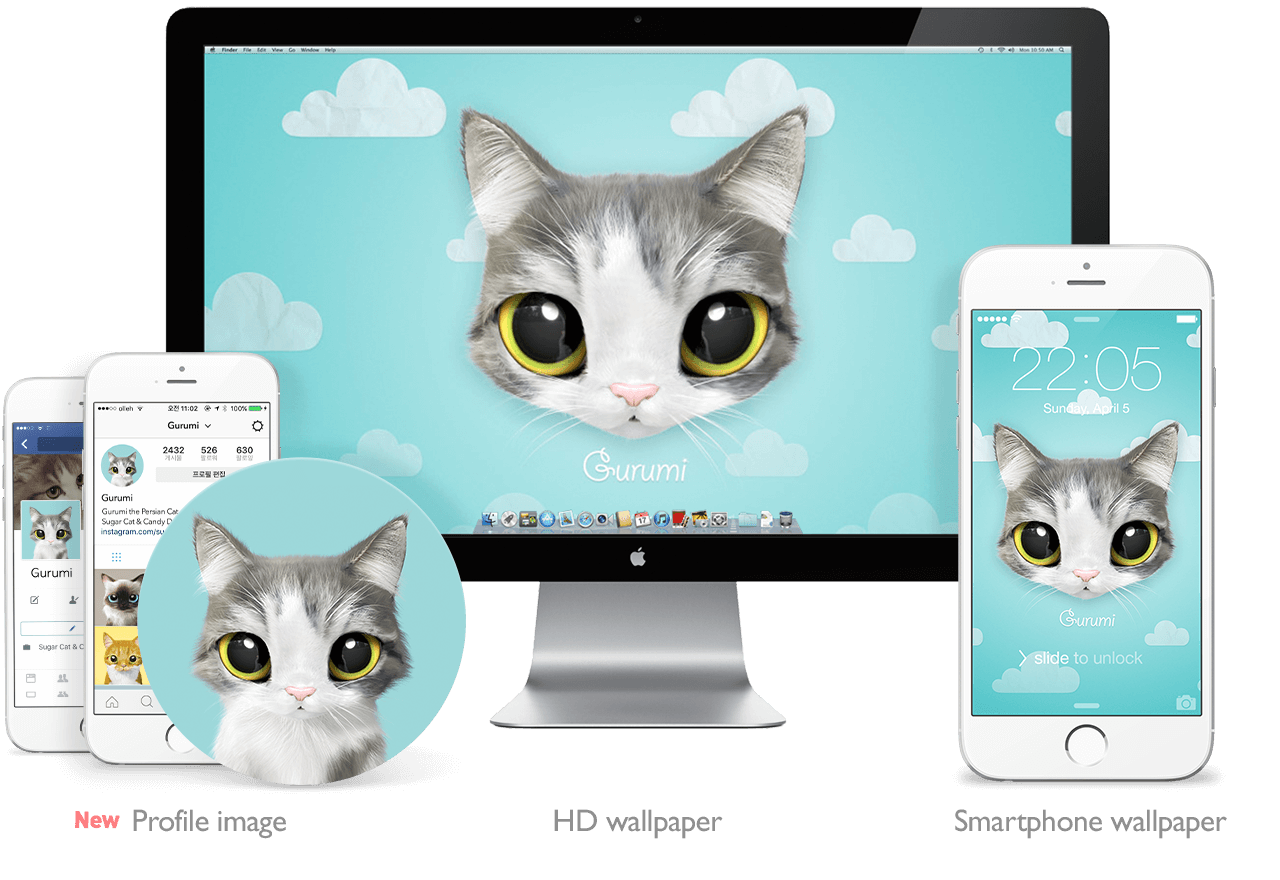
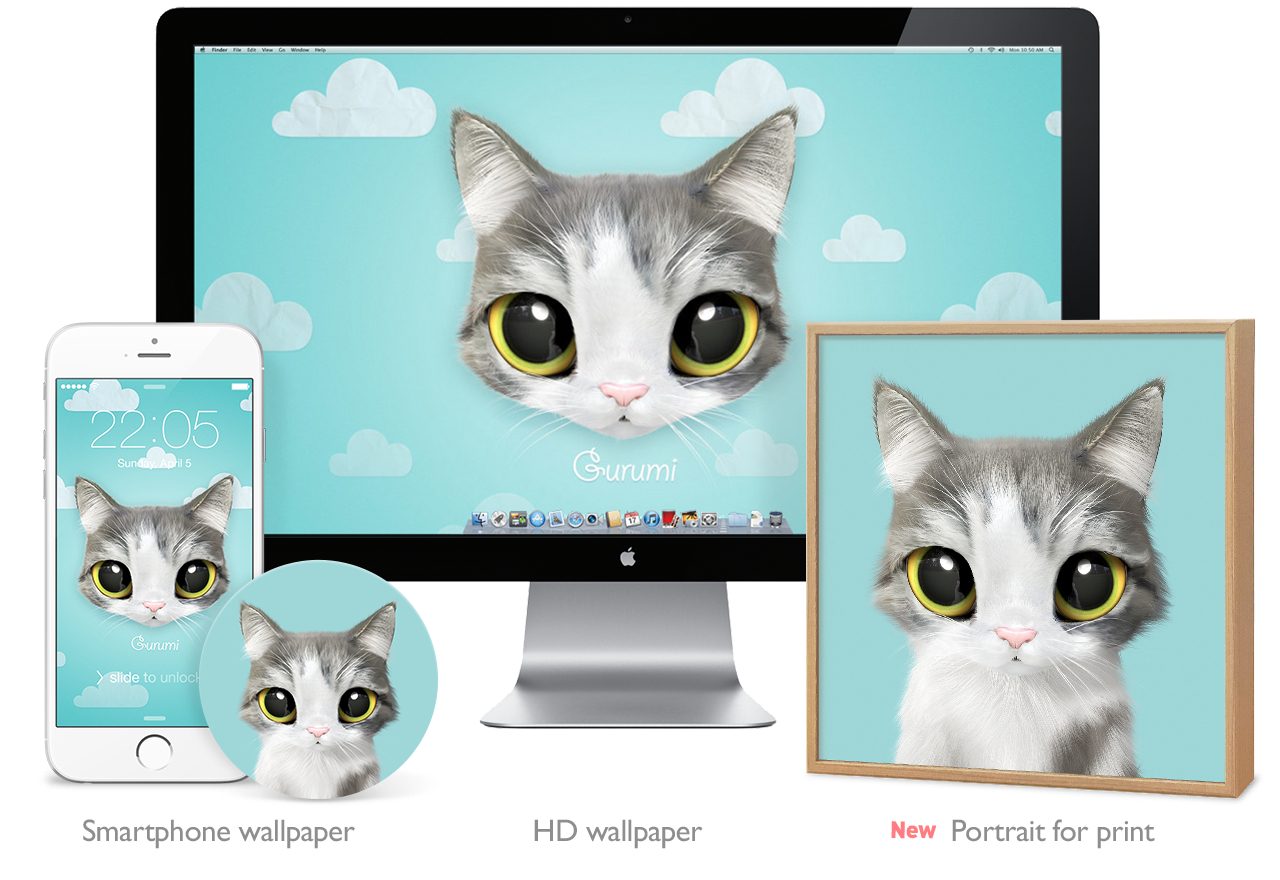
주문제작 아트프레임 업데이트

diff --git a/order/index.html b/order/index.html
@@ -262,13 +262,13 @@
           <h1 class="heading large">
             <span class="lang en">Order Now</span>
             <span class="lang ja hidden">Order Now</span>
-            <span class="lang ko hidden">지금 주문하세요</span>
+            <span class="lang ko hidden">지금 주문하세요!</span>
           </h1>
 
           <p class="main_desc">
-            <span class="lang en">You can meet now a pet you want to see every day in the smartphone and desktop wallpaper. 'Sugar Cat &amp; Candy Doggie' designs and creates your one and only 3D character of your pet. Digital package contains HD wallpaper, smartphone wallpaper and profile image(bust portrait).</span>
-            <span class="lang ja hidden">You can meet now a pet you want to see every day in the smartphone and desktop wallpaper. 'Sugar Cat &amp; Candy Doggie' designs and creates your one and only 3D character of your pet. Digital package contains HD wallpaper, smartphone wallpaper and profile image(bust portrait).</span>
-            <span class="lang ko hidden">매일봐도 보고 싶은 당신의 반려동물을 이제 스마트폰 배경화면에서 만날 수 있습니다. 슈가캣 &amp; 캔디도기의 3D 캐릭터 초상화를 주문하세요. 디지털패키지는 HD 배경화면과 스마트폰 배경화면, 그리고 프로필 이미지(흉상 초상화)로 구성됩니다.</span>
+            <span class="lang en">Custom order your one! 'Sugar Cat &amp; Candy Doggie' designs and creates your one and only 3D character of your pet. Digital package contains HD wallpaper, smartphone wallpaper, profile image and Portrait for print.</span>
+            <span class="lang ja hidden">Custom order your one! 'Sugar Cat &amp; Candy Doggie' designs and creates your one and only 3D character of your pet. Digital package contains HD wallpaper, smartphone wallpaper, profile image and Portrait for print.</span>
+            <span class="lang ko hidden">당신의 반려동물 초상화를 주문하세요. 슈가캣 &amp; 캔디도기 초상화는 당신의 반려동물을 3D 캐릭터 초상화로 제작해 드립니다. 디지털패키지와 아트프레임 상품을 지금 만나보세요!</span>
           </p>
           <div class="main_img_wrapper">
             <img src="../img/portrait_sample.png" class="img" alt="Sugarcat portrait">
@@ -276,9 +276,9 @@
           <div class="btn_wrapper">
 
             <p class="btn_header_info">
-              <span class="lang en">Portrait Digital packages : From $50</span>
-              <span class="lang ja hidden">Portrait Digital packages : From $50</span>
-              <span class="lang ko hidden">반려동물 초상화 디지털 패키지 : 56,000원 부터</span>
+              <span class="lang en">Custom Order Portrait : From $50</span>
+              <span class="lang ja hidden">Custom Order Portrait : From $50</span>
+              <span class="lang ko hidden">주문제작 반려동물 초상화 : 56,000원 부터</span>
             </p>
             
             
@@ -304,9 +304,9 @@
 
 
             <p class="main_detail">
-              <span class="lang en">・ <b>Digital package contains</b> : HD wallpaper(1920 x 1080px), Smartphone wallpaper(1080 x 2038px), Profile(bust portrait) image(1080 x 1080px), Portrait for print(19 x 19cm). The artworks will be sent to your email within 15 days of payment.(JPG format) <br><br>・ <b>Please check out before you buy</b> : It doesn't mean to buy the copyright of Sugar Cat &amp; Candy Doggie Portrait. Copyrights of the artworks are in our company. (It can not be used for commercial, or modification.)</span>
-              <span class="lang ja hidden">・ <b>Digital package contains</b> : HD wallpaper(1920 x 1080px), Smartphone wallpaper(1080 x 2038px), Profile(bust portrait) image(1080 x 1080px), Portrait for print(19 x 19cm). The artworks will be sent to your email within 15 days of payment.(JPG format) <br><br>・ <b>Please check out before you buy</b> : It doesn't mean to buy the copyright of Sugar Cat &amp; Candy Doggie Portrait. Copyrights of the artworks are in our company. (It can not be used for commercial, or modification.)</span>
-              <span class="lang ko hidden">・ <b>디지털 패키지 구성품</b> : HD 배경화면(1920 x 1080px), 스마트폰 배경화면(1080 x 2038px), 프로필(흉상초상화)이미지(1080 x 1080px). 결제일+15일 이내에 이메일로 전송해드립니다.(JPG 포맷)<br><br>・ <b>주문전에 꼭 확인해주세요!</b> 본 상품은 슈가캣 &amp; 캔디도기 초상화의 저작권을 구매하는 것이 아닙니다. 주문을 통해 제작한 초상화의 저작권은 당사에 있으며, 이를 변형하거나 상업적인 용도로 사용할 수 없습니다.</span>
+              <span class="lang en">・ <b>Digital package contains</b> : HD wallpaper(1920 x 1080px), Smartphone wallpaper(1080 x 2038px), Profile image(1080 x 1080px), High-resolution Portrait for print(19 x 19cm). The artworks will be sent to your email within 15 days of payment.(JPG format) <br><br>・ <b>Please check out before you buy</b> : It doesn't mean to buy the copyright of Sugar Cat &amp; Candy Doggie Portrait. Copyrights of the artworks are in our company. (It can not be used for commercial, or modification.)</span>
+              <span class="lang ja hidden">・ <b>Digital package contains</b> : HD wallpaper(1920 x 1080px), Smartphone wallpaper(1080 x 2038px), Profile image(1080 x 1080px), High-resolution Portrait for print(19 x 19cm). The artworks will be sent to your email within 15 days of payment.(JPG format) <br><br>・ <b>Please check out before you buy</b> : It doesn't mean to buy the copyright of Sugar Cat &amp; Candy Doggie Portrait. Copyrights of the artworks are in our company. (It can not be used for commercial, or modification.)</span>
+              <span class="lang ko hidden">・ <b>디지털 패키지 구성품</b> : HD 배경화면(1920 x 1080px), 스마트폰 배경화면(1080 x 2038px), 프로필 이미지(1080 x 1080px), 출력용 고해상도 초상화 이미지(19cm x 19cm). 결제일+15일 이내에 이메일로 전송해드립니다.(JPG 포맷) <br>・ <b>아트프레임 구성품</b> : 주문제작 초상화 아트프레임(20x20x2.8cm / MDF우드텍스쳐 / 무광코팅 / 1개). 결제일+15일 이내 출고됩니다. (무료배송, 국내 주문 및 배송에 한함)<br><br>・ <b>주문전에 꼭 확인해주세요!</b> 본 상품은 슈가캣 &amp; 캔디도기 초상화의 저작권을 구매하는 것이 아닙니다. 주문을 통해 제작한 초상화의 저작권은 당사에 있으며, 이를 변형하거나 상업적인 용도로 사용할 수 없습니다.</span>
             </p>
 
           </div>

diff --git a/index.html b/index.html
@@ -238,15 +238,15 @@
       <div class="main_content">
 
         <h1 class="heading large">
-          <span class="lang en">Portrait in digital packages</span>
-          <span class="lang ja hidden">Portrait in digital packages</span>
-          <span class="lang ko hidden">디지털 초상화 패키지</span>
+          <span class="lang en">Custom Order Portrait</span>
+          <span class="lang ja hidden">Custom Order Portrait</span>
+          <span class="lang ko hidden">주문제작 반려동물 초상화</span>
         </h1>
 
           <p class="main_desc">
-            <span class="lang en">You can meet now a pet you want to see every day in the smartphone and desktop wallpaper. 'Sugar Cat &amp; Candy Doggie' designs and creates your one and only 3D character of your pet. Digital package contains HD wallpaper, smartphone wallpaper and profile image(bust portrait).</span>
-            <span class="lang ja hidden">You can meet now a pet you want to see every day in the smartphone and desktop wallpaper. 'Sugar Cat &amp; Candy Doggie' designs and creates your one and only 3D character of your pet. Digital package contains HD wallpaper, smartphone wallpaper and profile image(bust portrait).</span>
-            <span class="lang ko hidden">매일봐도 보고 싶은 당신의 반려동물을 이제 스마트폰 배경화면에서 만날 수 있습니다. 슈가캣 &amp; 캔디도기의 3D 캐릭터 초상화를 주문하세요. 디지털패키지는 HD 배경화면과 스마트폰 배경화면, 그리고 프로필 이미지(흉상 초상화)로 구성됩니다.</span>
+            <span class="lang en">Custom order your one! 'Sugar Cat &amp; Candy Doggie' designs and creates your one and only 3D character of your pet. Digital package contains HD wallpaper, smartphone wallpaper, profile image and Portrait for print.</span>
+            <span class="lang ja hidden">Custom order your one! 'Sugar Cat &amp; Candy Doggie' designs and creates your one and only 3D character of your pet. Digital package contains HD wallpaper, smartphone wallpaper, profile image and Portrait for print.</span>
+            <span class="lang ko hidden">당신의 반려동물 초상화를 주문하세요. 슈가캣 &amp; 캔디도기 초상화는 당신의 반려동물을 3D 캐릭터 초상화로 제작해 드립니다. 디지털패키지와 아트프레임 상품을 지금 만나보세요!</span>
           </p>
         <div class="main_img_wrapper">
           <img src="img/portrait_sample.png" class="img" alt="Sugarcat portrait">
